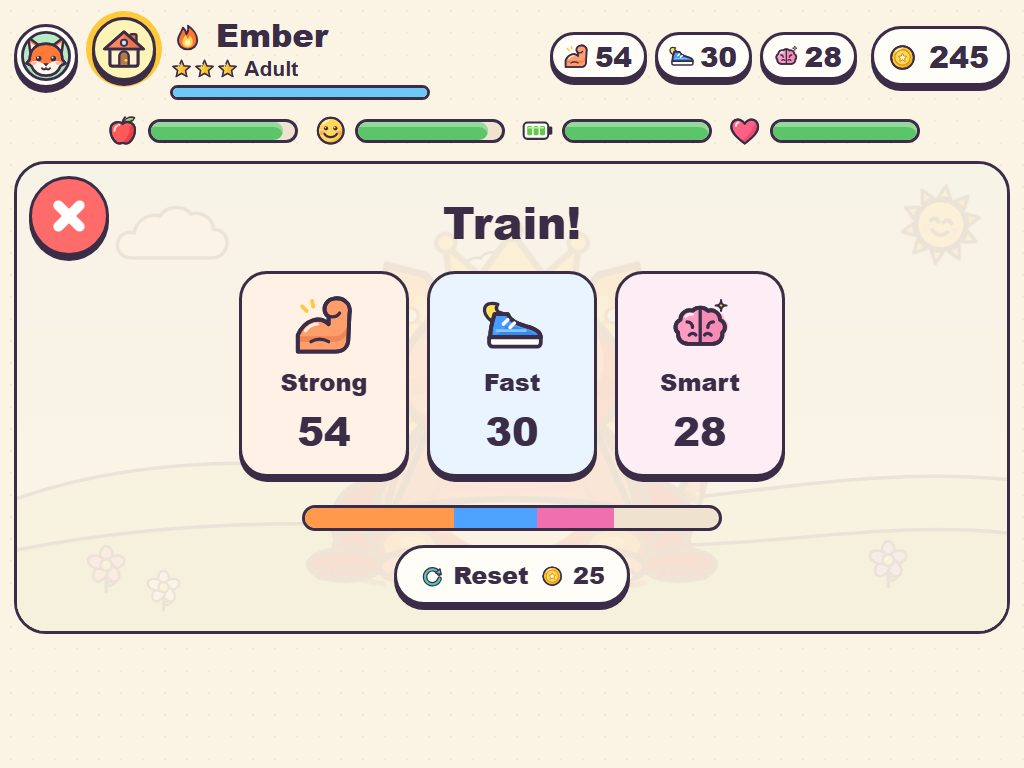
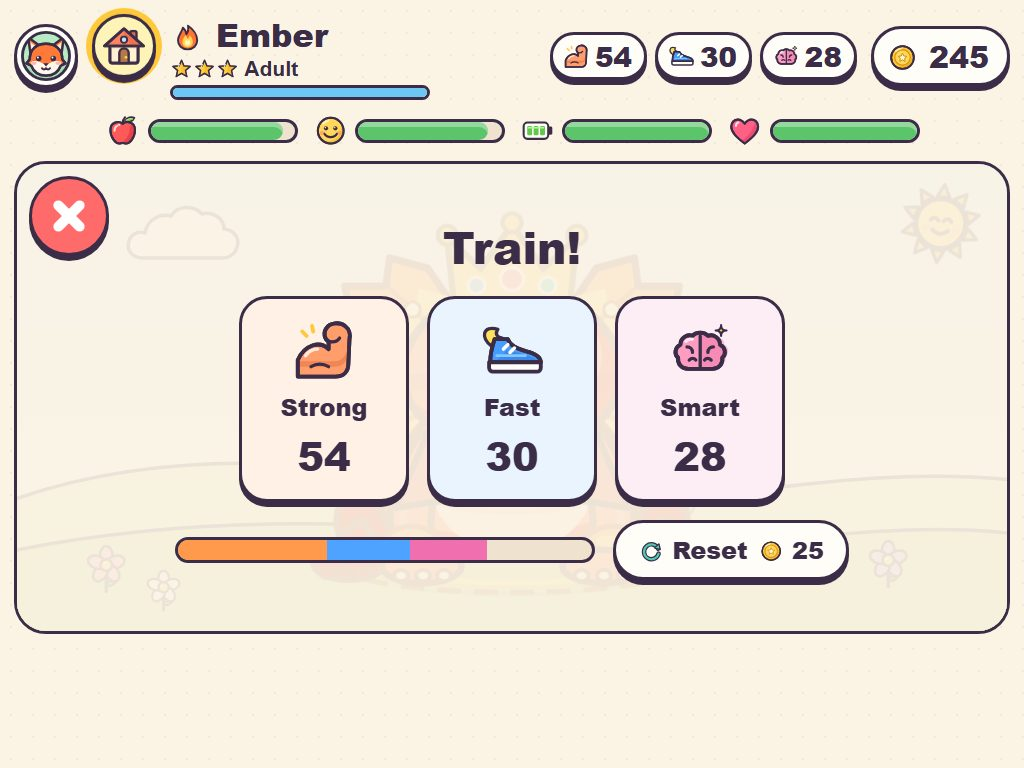
Add supported devices and tidy support checklist

Changed region(s): [[0.1562, 0.25, 0.8438, 0.8125], [0.0625, 0.0, 0.1562, 0.125]]

diff --git a/manual.html b/manual.html
@@ -3,12 +3,12 @@
 <head>
   <meta charset="utf-8">
   <meta name="viewport" content="width=device-width, initial-scale=1">
-  <title>Instruction Booklet — Brain Beasts</title>
-  <meta name="description" content="The official Brain Beasts instruction booklet: the screens, the care meters, all nine training games, battles, bosses, the house and parental controls.">
+  <title>Game Manual — Brain Beasts</title>
+  <meta name="description" content="The official Brain Beasts game manual: the screens, the care meters, all nine training games, battles, bosses, the house and parental controls.">
   <link rel="icon" type="image/png" href="icon.png">
   <link rel="apple-touch-icon" href="icon.png">
   <style>
-    /* Instruction booklet styling: a printed game manual, circa 2002. No external fonts or scripts. */
+    /* Game manual styling: a printed game manual, circa 2002. No external fonts or scripts. */
     :root {
       --ink: #3b2d47;
       --ink-soft: #645373;
@@ -238,6 +238,9 @@
     .stat.s { background: var(--strong); }
     .stat.f { background: var(--fast); }
     .stat.m { background: var(--smart); }
+    .stat.a { background: linear-gradient(90deg, var(--strong), var(--fast), var(--smart)); text-shadow: 0 1px 0 rgba(59, 45, 71, 0.6); }
+    /* Meet the Beasts: stat chips sit in the middle of their columns */
+    .beasts th.mid, .beasts td:nth-child(n+3) { text-align: center; }
 
     /* Training game cards */
     .games { display: grid; grid-template-columns: repeat(3, 1fr); gap: 16px; margin: 14px 0 6px; }
@@ -307,7 +310,7 @@
     <section class="page cover" aria-label="Cover">
       <div class="burst">Hatch!<br>Train!<br>Battle!</div>
       <img class="wordmark" src="wordmark.png" alt="Brain Beasts" width="440" height="220">
-      <div class="subtitle">Instruction Booklet</div>
+      <div class="subtitle">Game Manual</div>
       <div class="cover-shot"><img src="manual/home.jpg" alt="Ember the fire beast, crowned, on the home screen" width="1024" height="768"></div>
       <div class="badges">
         <span class="badge">Ages 3–9+</span>
@@ -315,7 +318,7 @@
         <span class="badge">Touch screen</span>
         <span class="badge">No ads · No internet needed</span>
       </div>
-      <div class="folio"><span>Brain Beasts</span><span>Keep this booklet for future reference</span></div>
+      <div class="folio"><span>Brain Beasts</span><span>Keep this manual for future reference</span></div>
     </section>
 
     <!-- ===================== CONTENTS ===================== -->
@@ -327,7 +330,7 @@
       </div>
       <div class="page-body">
         <p class="lede">
-          Welcome, Beast Keeper! Please read this booklet with your young player before starting. It
+          Welcome, Beast Keeper! Please read this manual with your young player before starting. It
           explains every screen in the game, all nine training games, battles and bosses, and the
           settings grown-ups can change. Little ones don't need to read anything to play: every button
           has a picture, and the game gives a gentle tour the first time.
@@ -644,8 +647,9 @@
         <h3>Starting over with stats</h3>
         <p>
           Changed your mind about how you've trained a beast? Once it has trained points, a
-          <strong>Reset</strong> button appears under the bar in the Train menu. For 25 coins (tap twice
-          to be sure) its stats go back to where they started. It stays the same age and keeps its look.
+          <strong>Reset</strong> button appears beside the bar in the Train menu. It's a big change, so a
+          grown-up has to answer a quick sum first (the same one as the Parents button). Then, for 25 coins,
+          its stats go back to where they started. It stays the same age and keeps its look.
         </p>
       </div>
       <div class="folio"><span>Training</span><b>7–8</b></div>
@@ -880,9 +884,9 @@
         </div>
         <p>Tap <strong>Bosses</strong> in the top corner to visit the Boss House, and <strong>My House</strong> to come home.</p>
         <div class="secret"><span class="tag">Secret</span>
-          <p>Raise <strong>all twelve kinds of beast to Adult</strong> and the egg on the roof unlocks. Tap it ten times in the dark... and find out what's inside! (Hint: bring your dancing shoes.) Once it's hatched, tap it on the roof any time to start the party again, and tap the dancers to make them twirl.</p>
+          <p>Raise <strong>all twelve kinds of beast to Adult</strong> and the egg on the roof unlocks. Tap it ten times in the dark... and find out what's inside! (Hint: bring your dancing shoes.) Once it's hatched, tap it on the roof any time to start the fun again.</p>
         </div>
-        <figure><div class="shot"><img src="manual/party.jpg" alt="Beasts dancing under a disco ball" loading="lazy" width="1024" height="768"></div><figcaption>What could it be?</figcaption></figure>
+        <figure><div class="shot"><img src="manual/party.jpg" alt="A sparkly disco ball, close up" loading="lazy" width="1024" height="768"></div><figcaption>What could it be?</figcaption></figure>
       </div>
       <div class="folio"><span>The House</span><b>14–15</b></div>
     </section>
@@ -901,21 +905,21 @@
           <strong>not keen on</strong> (which counts for a bit less). The numbers on screen don't change,
           but you'll notice it in battle! Three beasts are happy all-rounders.
         </p>
-        <div class="table-wrap"><table>
-          <thead><tr><th>Beast</th><th>Element</th><th>Starts best at</th><th>Favourite</th><th>Not keen on</th></tr></thead>
+        <div class="table-wrap"><table class="beasts">
+          <thead><tr><th>Beast</th><th>Element</th><th class="mid">Starts best at</th><th class="mid">Favourite</th><th class="mid">Not keen on</th></tr></thead>
           <tbody>
-            <tr><td><strong>Ember</strong>, a frilled fire lizard</td><td><span class="el" style="background:#ff6b3d"></span>Fire</td><td><span class="stat s">Strong</span></td><td colspan="2">All-rounder</td></tr>
+            <tr><td><strong>Ember</strong>, a frilled fire lizard</td><td><span class="el" style="background:#ff6b3d"></span>Fire</td><td><span class="stat s">Strong</span></td><td colspan="2"><span class="stat a">All</span></td></tr>
             <tr><td><strong>Flick</strong>, a storybook fox</td><td><span class="el" style="background:#ff6b3d"></span>Fire</td><td><span class="stat f">Fast</span></td><td><span class="stat f">Fast</span></td><td><span class="stat s">Strong</span></td></tr>
             <tr><td><strong>Gilly</strong>, a reef axolotl</td><td><span class="el" style="background:#3f8fe8"></span>Water</td><td><span class="stat m">Smart</span></td><td><span class="stat m">Smart</span></td><td><span class="stat f">Fast</span></td></tr>
             <tr><td><strong>Splosh</strong>, a sea lion</td><td><span class="el" style="background:#3f8fe8"></span>Water</td><td><span class="stat s">Strong</span></td><td><span class="stat s">Strong</span></td><td><span class="stat m">Smart</span></td></tr>
-            <tr><td><strong>Sprig</strong>, a leafy bulb sprite</td><td><span class="el" style="background:#5cbf4a"></span>Grass</td><td><span class="stat m">Smart</span></td><td colspan="2">All-rounder</td></tr>
+            <tr><td><strong>Sprig</strong>, a leafy bulb sprite</td><td><span class="el" style="background:#5cbf4a"></span>Grass</td><td><span class="stat m">Smart</span></td><td colspan="2"><span class="stat a">All</span></td></tr>
             <tr><td><strong>Thistle</strong>, a woodland hedgehog</td><td><span class="el" style="background:#5cbf4a"></span>Grass</td><td><span class="stat f">Fast</span></td><td><span class="stat f">Fast</span></td><td><span class="stat m">Smart</span></td></tr>
             <tr><td><strong>Buzzle</strong>, a bumblebee</td><td><span class="el" style="background:#ffcf2e"></span>Electric</td><td><span class="stat f">Fast</span></td><td><span class="stat f">Fast</span></td><td><span class="stat s">Strong</span></td></tr>
             <tr><td><strong>Nimbo</strong>, a storm cloud spirit</td><td><span class="el" style="background:#ffcf2e"></span>Electric</td><td><span class="stat m">Smart</span></td><td><span class="stat m">Smart</span></td><td><span class="stat f">Fast</span></td></tr>
             <tr><td><strong>Snowl</strong>, a snowy owl</td><td><span class="el" style="background:#8fd8f0"></span>Ice</td><td><span class="stat m">Smart</span></td><td><span class="stat m">Smart</span></td><td><span class="stat s">Strong</span></td></tr>
             <tr><td><strong>Flurry</strong>, a woolly snow bear</td><td><span class="el" style="background:#8fd8f0"></span>Ice</td><td><span class="stat s">Strong</span></td><td><span class="stat s">Strong</span></td><td><span class="stat m">Smart</span></td></tr>
             <tr><td><strong>Pebbit</strong>, a stone golem</td><td><span class="el" style="background:#b08560"></span>Rock</td><td><span class="stat s">Strong</span></td><td><span class="stat s">Strong</span></td><td><span class="stat f">Fast</span></td></tr>
-            <tr><td><strong>Digby</strong>, a burrowing mole</td><td><span class="el" style="background:#b08560"></span>Rock</td><td><span class="stat f">Fast</span></td><td colspan="2">All-rounder</td></tr>
+            <tr><td><strong>Digby</strong>, a burrowing mole</td><td><span class="el" style="background:#b08560"></span>Rock</td><td><span class="stat f">Fast</span></td><td colspan="2"><span class="stat a">All</span></td></tr>
           </tbody>
         </table></div>
         <div class="tip"><span class="tag">Tip!</span>
@@ -1026,6 +1030,7 @@
               <li><strong>Reset creatures</strong>: start again with two new eggs, <em>keeping</em> all coins, clothes and backgrounds.</li>
               <li><strong>Show tour again</strong>: replay the home screen tour next time they play.</li>
               <li><strong>Remove player</strong>: deletes the player from this device. It takes three steps, including typing the player's name, so it can't happen by accident.</li>
+              <li><strong>Game manual</strong> (under the players): opens this manual in the web browser.</li>
             </ul>
           </div>
           <figure><div class="shot"><img src="manual/parents.jpg" alt="Parental controls for one player" loading="lazy" width="1024" height="768"></div><figcaption>Parental controls.</figcaption></figure>
@@ -1038,7 +1043,7 @@
           <a href="privacy.html">Privacy Policy</a> for details.
         </p>
         <div class="note"><span class="tag">Note</span>
-          <p>Brain Beasts has no ads, no links out of the game, no chat and no in-app purchases. Coins are earned only by playing.</p>
+          <p>Brain Beasts has no ads, no links out of the game (apart from this manual, behind the grown-ups' gate), no chat and no in-app purchases. Coins are earned only by playing.</p>
         </div>
       </div>
       <div class="folio"><span>For Grown-ups</span><b>18–19</b></div>

diff --git a/support.html b/support.html
@@ -30,19 +30,31 @@
           Need help with <strong>Brain Beasts</strong>, spotted a bug, or have a suggestion?
           Send us an email and we'll get back to you as soon as we can.
         </p>
-        <a class="btn" href="mailto:brainbeasts.support@gmail.com?subject=Brain%20Beasts%20Support">
+        <p>For a bug, these details help us track it down quickly:</p>
+        <ul>
+          <li><strong>Your tablet</strong>, for example Fire HD 10 or iPad (9th generation)</li>
+          <li><strong>Where you got the app</strong>: Amazon Appstore or Apple App Store</li>
+          <li><strong>Which screen or minigame</strong> you were on</li>
+          <li><strong>What happened</strong> just before the problem, and what you expected instead</li>
+          <li>A <strong>screenshot</strong>, if you can take one</li>
+        </ul>
+        <p>
+          The email button fills in these headings for you. Please leave out your child's full name
+          and other personal details, as we don't need them to help.
+        </p>
+        <a class="btn" href="mailto:brainbeasts.support@gmail.com?subject=Brain%20Beasts%20Support&amp;body=Tablet%20model%3A%20%0AWhere%20you%20got%20the%20app%20(Amazon%20or%20Apple)%3A%20%0AWhich%20screen%20or%20game%3A%20%0AWhat%20happened%3A%20%0A%0A">
           Email brainbeasts.support@gmail.com
         </a>
       </section>
 
       <section class="card">
-        <h2>Instruction Booklet</h2>
+        <h2>Game Manual</h2>
         <p>
-          New to Brain Beasts? The <strong>instruction booklet</strong> walks through every screen,
+          New to Brain Beasts? The <strong>game manual</strong> walks through every screen,
           the care meters, all nine training games, battles and bosses, the house, and the grown-up
           settings, with pictures and hints along the way.
         </p>
-        <a class="btn" href="manual.html">Read the instruction booklet</a>
+        <a class="btn" href="manual.html">Read the game manual</a>
       </section>
 
       <section class="card">
@@ -98,8 +110,9 @@
         <details>
           <summary>When reporting a bug, what helps most?</summary>
           <p>
-            Please let us know your tablet model (for example, Fire HD 10 or iPad), the screen you
-            were on, and what happened right before the issue. Screenshots are always welcome!
+            Your tablet model, where you got the app, the screen you were on, and what happened just
+            before the issue. The checklist at the top of this page has the full list, and the email
+            button fills in the headings for you. Screenshots are always welcome!
           </p>
         </details>
       </section>

diff --git a/index.html b/index.html
@@ -57,6 +57,15 @@
         </ul>
         <a class="btn" href="support.html">Parent Guide &amp; Support</a>
       </section>
+
+      <section class="card">
+        <h2>Works on</h2>
+        <ul>
+          <li><strong>Amazon Fire tablets:</strong> Fire 7 (2022) or newer, and Fire HD 8 or Fire HD 10 from 2020 onwards.</li>
+          <li><strong>iPad:</strong> any iPad running iPadOS 16 or later, including the iPad (5th generation).</li>
+        </ul>
+        <p>Brain Beasts is light on hardware: it plays smoothly on entry-level tablets and needs no internet connection.</p>
+      </section>
     </main>
 
     <footer class="site-footer">
